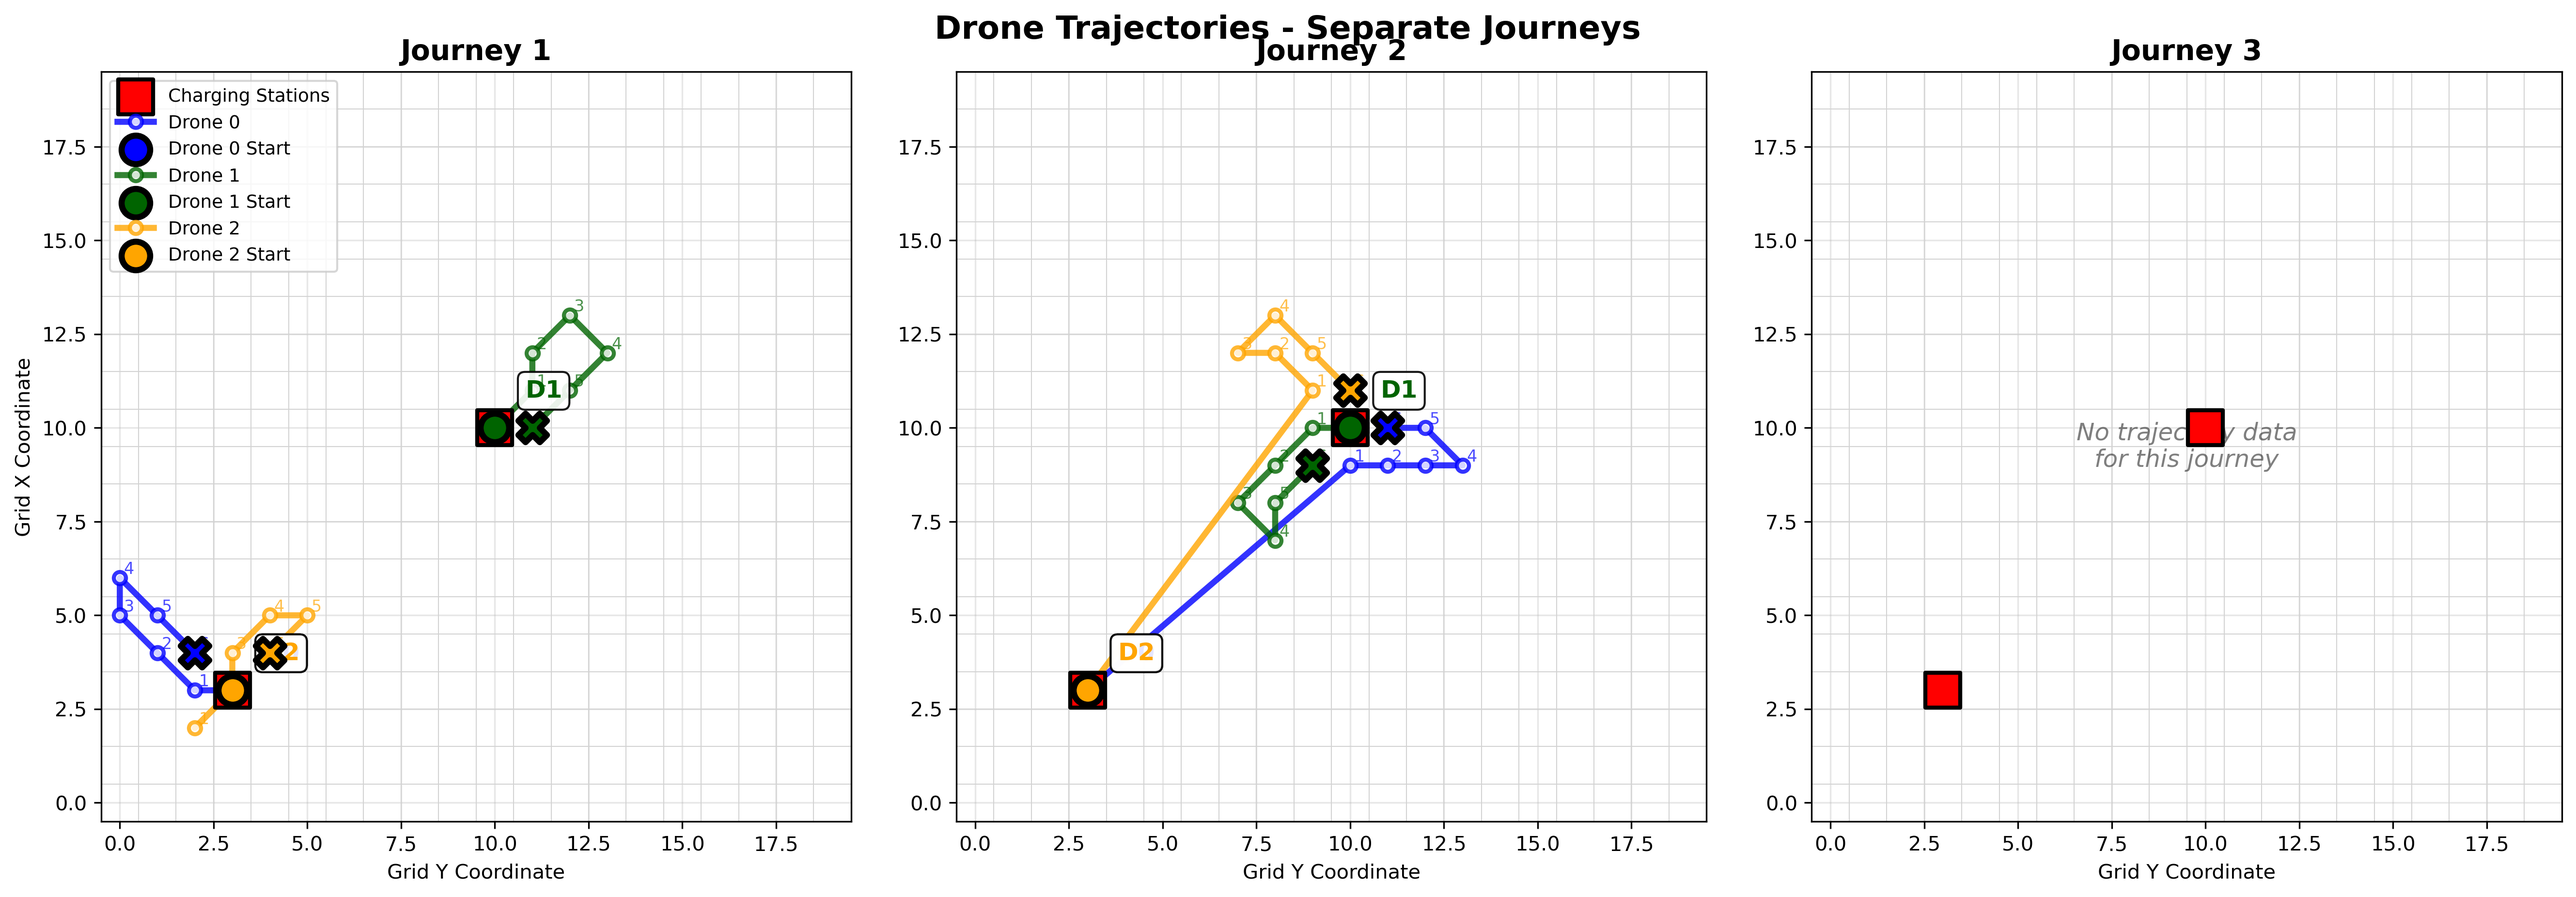
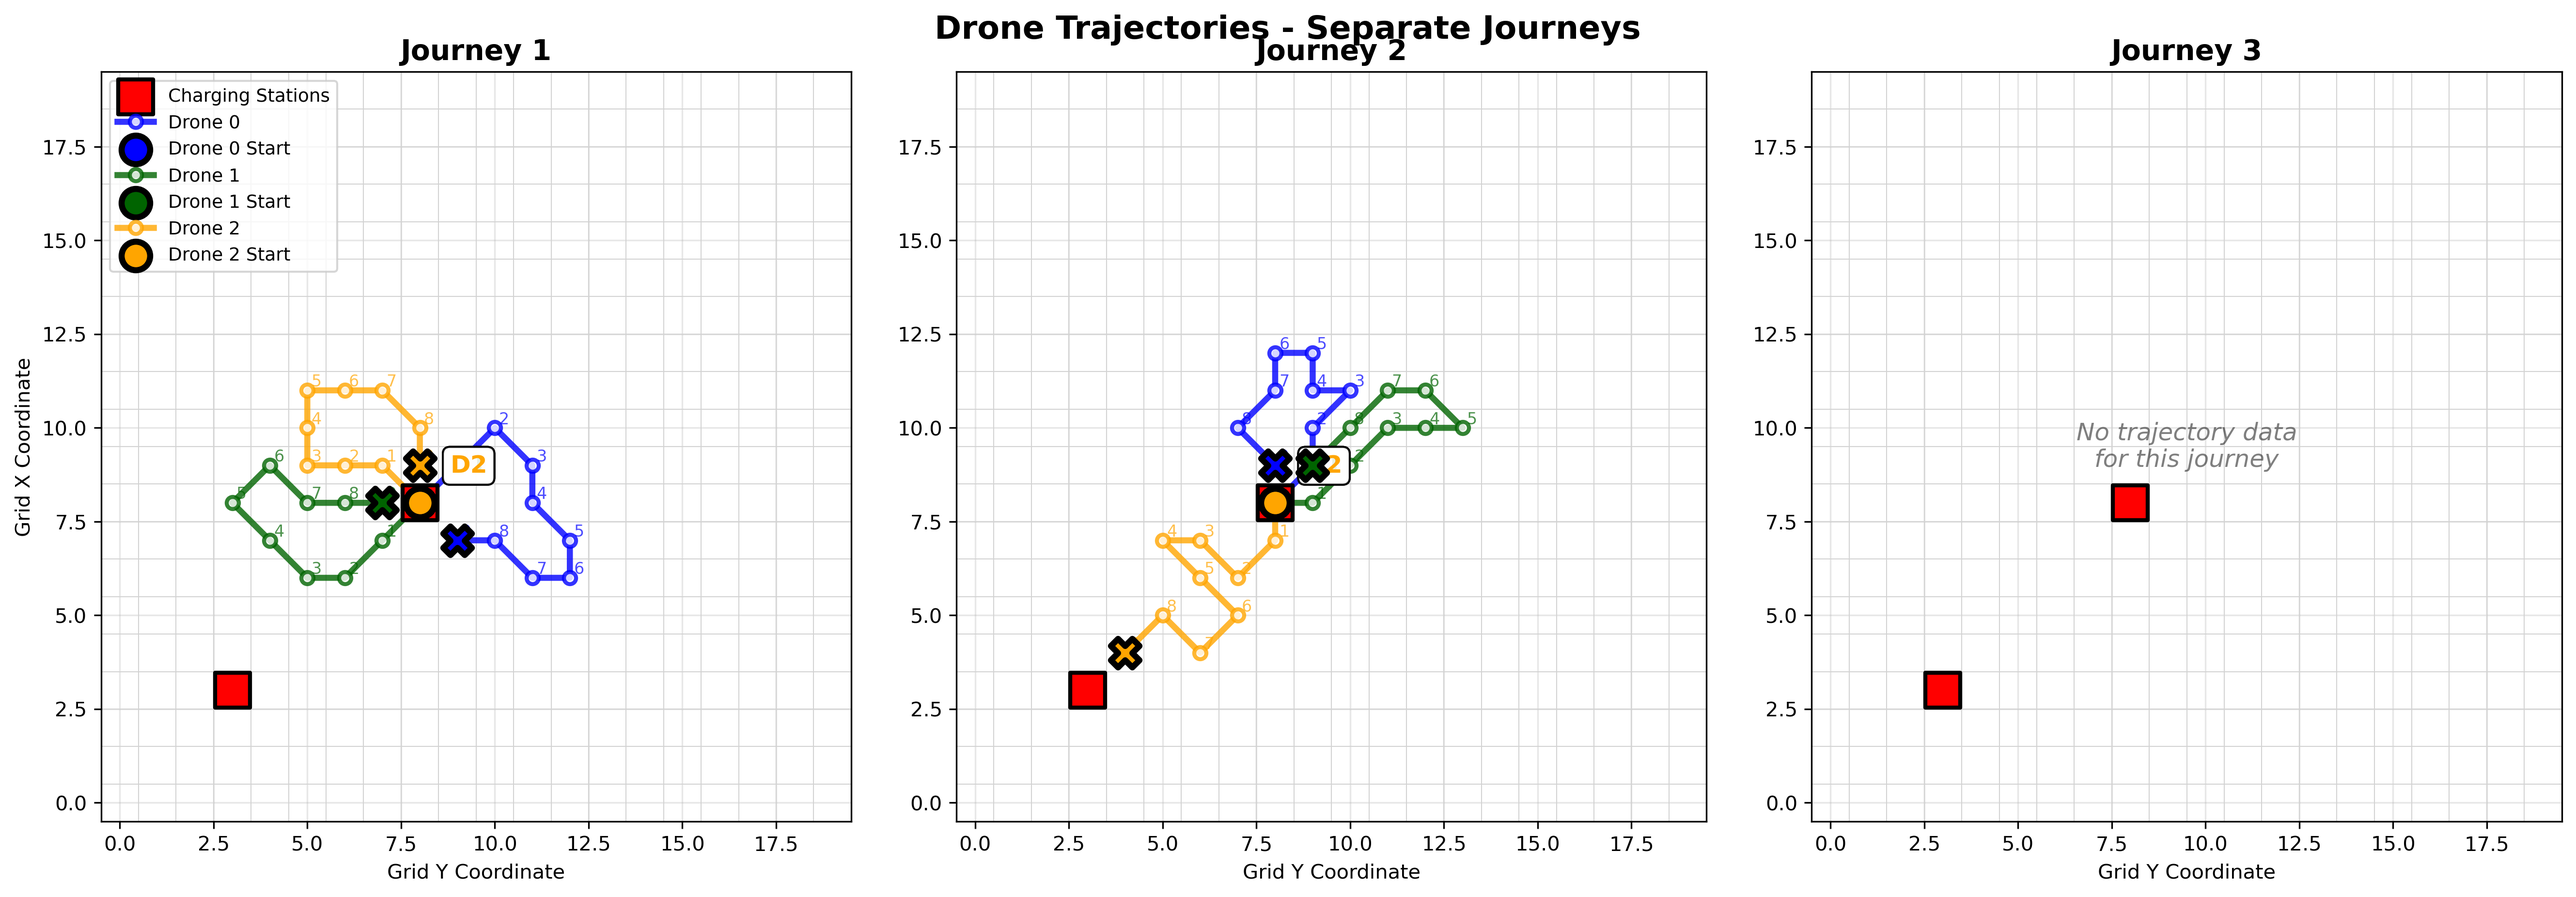
multi depot PSO with next actions and depot switch

diff --git a/tests/test_top_strategy_simple.py b/tests/test_top_strategy_simple.py
@@ -164,8 +164,8 @@ def test_top_strategy_basic():
        • each step returns exactly n_drones actions
     """
     # params
-    L = 7
-    N = M = 20
+    L = 10
+    N = M = 15
     # --- 1. Create toy burn-map ------------------------------------
     burnmap = np.random.pareto(1, size=(1, N, M)) * 0.001  # Pareto with shape parameter 1 gives very fat tails
     # multiply each cell by the infinity norm if its index
@@ -188,7 +188,7 @@ def test_top_strategy_basic():
         "n_ground_stations": 0,
         "n_charging_stations": 1,
         "ground_sensor_locations": [(0,0)],
-        "charging_stations_locations": [(3, 3), (10,10)],  # Python 0-based
+        "charging_stations_locations": [(3, 3), (8,8)],  # Python 0-based
         "data_time_resolution": L, # TODO for the momemnt battery = data res. THINK ABT IMPLICATIONS IF BATTERY IS LESS
     }
 
@@ -224,7 +224,7 @@ def test_top_strategy_basic():
     }
     
     print("Running simulation steps...")
-    total_steps = 2 * auto_params["max_battery_time"]
+    total_steps = 3 * auto_params["max_battery_time"]
     for t in range(total_steps):
         actions = strat.next_actions(step_params, {})
         # Print progress every 10 steps instead of every step to avoid blocking IO
@@ -293,7 +293,7 @@ def test_top_strategy_basic():
         ground_sensor_locations=auto_params.get("ground_sensor_locations", []),
         charging_stations_locations=auto_params["charging_stations_locations"],
         frames_per_image=2,
-        maxframes=2 * auto_params["max_battery_time"] + 1
+        maxframes=3 * auto_params["max_battery_time"] + 1
     )
     
     print("Video saved as: display_drone_trajectories_burnmap/drone_trajectories_burnmap.mp4")

diff --git a/code/Strategy.py b/code/Strategy.py
@@ -3145,6 +3145,13 @@ class DroneRoutingTOP(DroneRoutingStrategy):
             # print("--- end of parameters ---")
 
             # Solve next move with the existing model
+            julia_drone_locations = [(x+1, y+1) for x, y in automatic_step_parameters["drone_locations"]]
+            print("current drone locations in julia indexing are:", julia_drone_locations)
+            # if drone are not on charging stations, we raise an error # TODO, put this in julia instead of here
+            for drone_location in julia_drone_locations:
+                if drone_location not in self.julia_charging_stations_locations:
+                    raise ValueError(f"Drone is not on a charging station: {drone_location}")
+            
             start_time = time.time()
             self.current_solution = jl.compute_TOP_plan_multiple_depots(
                 self.current_burnmap_filename,
@@ -3153,7 +3160,8 @@ class DroneRoutingTOP(DroneRoutingStrategy):
                 self.julia_ground_sensor_locations,
                 self.automatic_initialization_parameters["max_battery_time"],
                 self.t,
-                False  # verbose=False to disable Julia plots
+                False,  # verbose=False to disable Julia plots
+                julia_drone_locations
             )
             self.execution_time += time.time() - start_time
             #print("Next move optimization finished")
